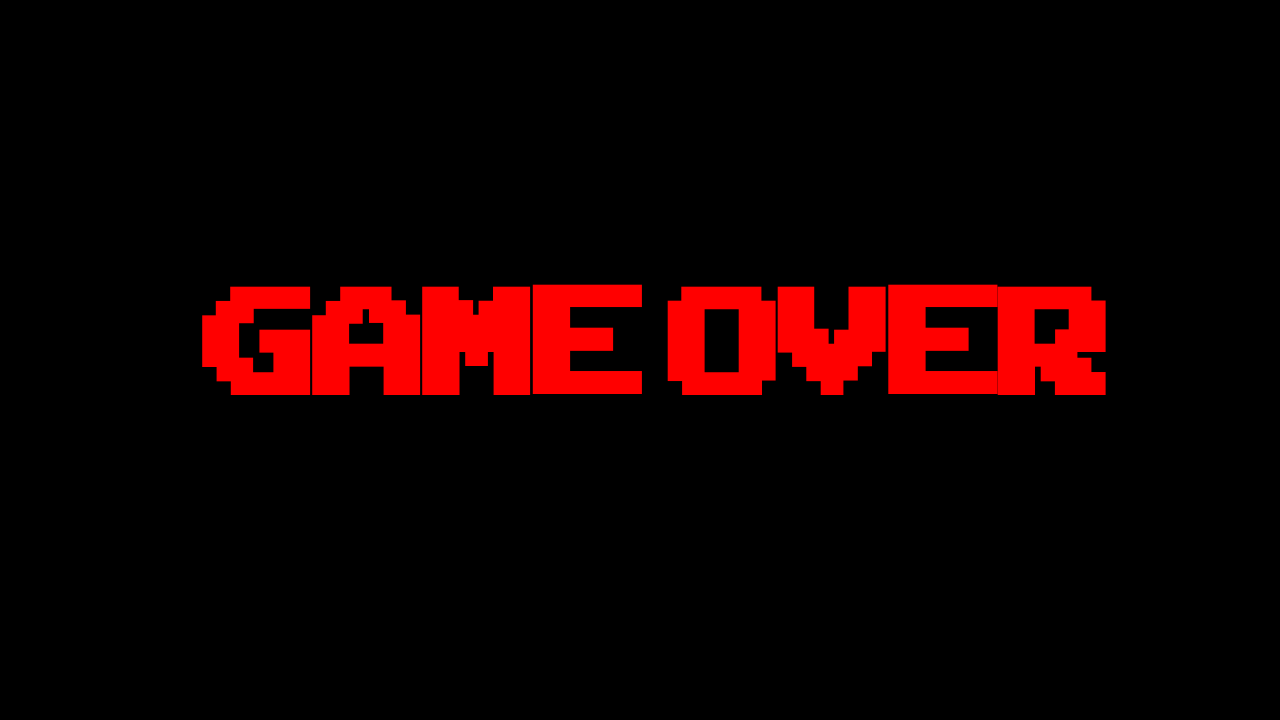
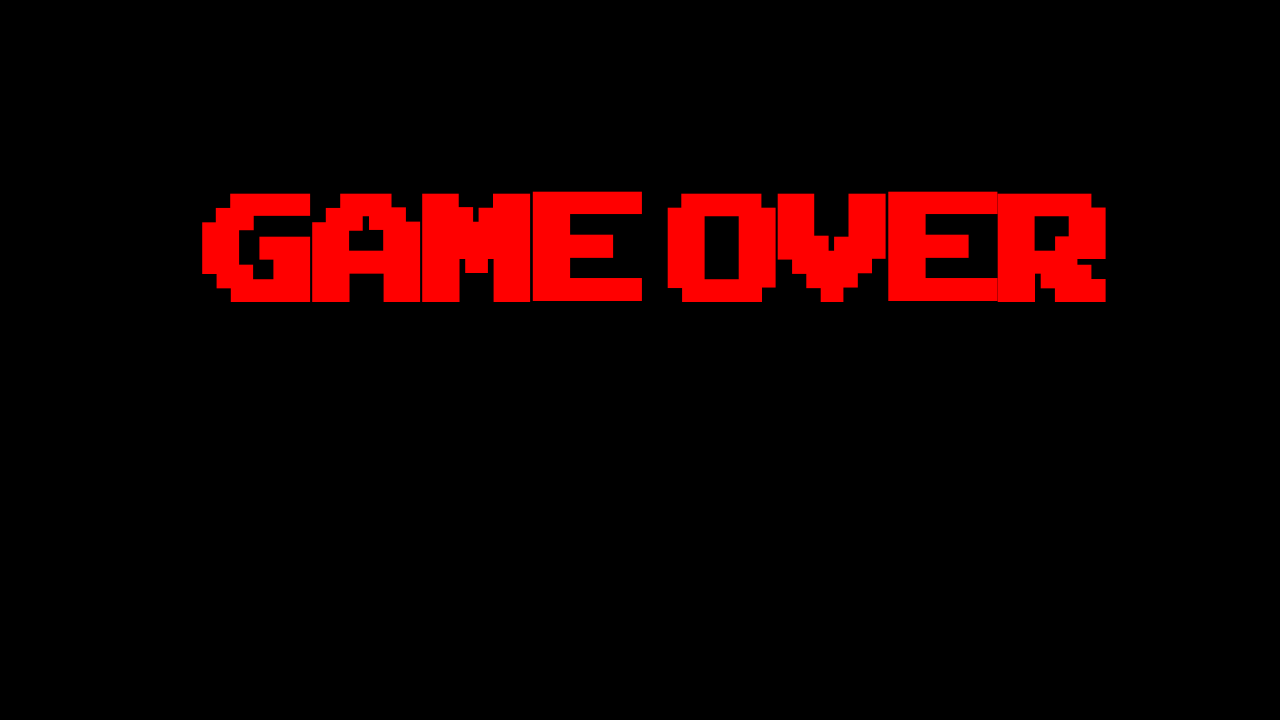
add: c'est la caca là

Changed region(s): [[0.1562, 0.2444, 0.875, 0.55]]

diff --git a/src/game/game.py b/src/game/game.py
@@ -10,6 +10,9 @@ from ..utils.utils import display_nums
 from ..utils.sprites import MENU, HUD, BACKGROUNDS
 
 
+PTS_LENGHT = 34
+
+
 class Game(State):
     def __init__(self, config: GameConfig) -> None:
         self.level = 0
@@ -28,7 +31,9 @@ class Game(State):
 
         self.player = Player(self.maze)
 
-        self.pacgums = PacgumManager(self.player, self.maze, 10, 50)
+        self.pacgums = PacgumManager(self.player, self.maze,
+                                     config.points_per_pacgum,
+                                     config.points_per_super_pacgum)
 
         self.ghosts = GhostManager(self.player, self.maze)
 
@@ -36,6 +41,7 @@ class Game(State):
 
         self.pause_menu = PausMenu()
         mlx.add_key_hook_function(self.open_pause_menu, "main")
+        mlx.add_key_hook_function(self.level_debug, "main")
 
     def open_pause_menu(self, keynum: int) -> None:
         if (mlx.KEYNAME[keynum] == "Escape" and self.game_ended is False):
@@ -46,27 +52,30 @@ class Game(State):
         mlx.close_window("main")
         return (MainMenu(self.config))
 
-    def regenerate_maze(self) -> None:
-        level = self.level
-        self.maze = Maze(
-            size=(self.config.level[level].width,
-                  self.config.level[level].height),
-            seed=self.config.seed
-        )
-
     def next_level(self) -> None:
         self.level += 1
-        self.regenerate_maze()
+        self.maze.regenerate_maze(
+            size=(self.config.level[self.level].width,
+                  self.config.level[self.level].height),
+            seed=self.config.seed)
+        # self.ghosts._reset_all_ghosts()
+        # ^
+        # |
+        # |
+        # Peut pas faire ça car le i_start et j_start  des phantomes
+        # correspondent à l'ancien labyrithe après le changement de celui-ci
+        self.ghosts = GhostManager(self.player, self.maze)  # <- temporaire
 
-        # C'est pas très beau et très opti de tout recrer
-        self.player = Player(self.maze)
-        self.ghosts = GhostManager(self.player, self.maze)
-        # on pourrait ajouter une methode dans entity qui actualise le maze
-        # puis réinitialiser nos entitées exemple :
-        #   self.ghosts.set_maze(self.maze)
-        #   self.ghosts._reset_all_ghosts()
-        #   self.player.reset()
-        #   self.player.set_maze(self.maze)
+        self.player.reset()
+
+        self.pacgums = PacgumManager(self.player, self.maze,
+                                     self.config.points_per_pacgum,
+                                     self.config.points_per_super_pacgum)
+
+    def level_debug(self, keynum: int) -> None:
+        if (mlx.KEYNAME[keynum] == "n" and self.game_ended is False):
+            print('CHANGING\n===============>>')
+            self.next_level()
 
 # -----------------------------------------------------------------------------
 # -------------------------------   UPDATE   ----------------------------------
@@ -82,13 +91,12 @@ class Game(State):
         # if the timer as finished or pacman is dead,
         # we wait 2s befor sending 1 to return to the main menu
         if (self.is_game_ended()):
-            if (mlx.timer - self.last_second >= 2.0):
+            if (mlx.timer - self.last_second >= 3.0):
                 return (1)
             return (0)
 
         if (self.pause_menu.pause is False):
             self.player.move()
-            # self.pacgums.display_pacgums()
             self.pacgums.update()
             self.ghosts.update()
 
@@ -111,6 +119,20 @@ class Game(State):
             BACKGROUNDS["Game over"],
             0,
             0
+        )
+        score_lenght = len(str(self.player.score)) * 14 + PTS_LENGHT
+        pts_offset = display_nums(
+            640 - int((score_lenght / 2)) + 7,
+            360,
+            "main",
+            str(self.player.score)
+            )
+        mlx.get_tools().mlx_put_image_to_window(
+            mlx.mlx_ptr,
+            mlx.windows["main"],
+            MENU["PTS"],
+            pts_offset,
+            360 - 7
         )
 
     def draw_pacman_lives(self, x: float, y: float) -> None:

diff --git a/src/game/entities/ghost.py b/src/game/entities/ghost.py
@@ -32,7 +32,7 @@ class Ghost(Entity):
     SNAIL_SPEED: int = 1.5
     FAST_SPEED: int = 0.75
     ROCKET_SPEED: int = 0.15
-    CORNERS: list[tuple[int, int]] = [(0,0), (0, 14), (14, 14), (14, 0)]
+    # CORNERS: list[tuple[int, int]] = [(0,0), (0, 14), (14, 14), (14, 0)]
 
     def __init__(self, maze: Maze, player: Player, prefix: str, speed: float,
                  i_start: int, j_start: int, dir_start: Direction) -> None:
@@ -66,13 +66,22 @@ class Ghost(Entity):
         self.direction_start = dir_start
 
         self.i, self.j = self.i_start, self.j_start
+        print(f"debug {self.prefix} i = {self.i}, j = {self.j}")
         self.direction = self.direction_start
-        self.x, self.y = self.maze.smaze[self.i][self.j]["coor"]
+        # self.x, self.y = self.maze.smaze[self.i][self.j]["coor"]  # on dirait que tu as oublié que j doit etre avant i pour acceder a une valeur dans une matrice, on commence par la hauteur
+        self.x, self.y = self.maze.smaze[self.j][self.i]["coor"]
         self.target: tuple[int, int]
         self.state = GhostState.CHASER
         self.is_frozen: bool = False
         self.last_s = mlx.timer
         self.last_death = 0
+
+        self.CORNERS: list[tuple[int, int]] = [
+            (0, 0),
+            (0, maze._height - 1),
+            (maze._width - 1, maze._height - 1),
+            (maze._width - 1, 0)
+            ]
 
     def set_state(self, new_state: GhostState) -> None:
         """Allows GhostManager to change ghost's behaviour"""
@@ -192,7 +201,8 @@ class Ghost(Entity):
 
             self.last_s = mlx.timer
 
-        self.x, self.y = self.maze.smaze[self.i][self.j]["coor"]
+        # self.x, self.y = self.maze.smaze[self.i][self.j]["coor"] pb i j ici aussi
+        self.x, self.y = self.maze.smaze[self.j][self.i]["coor"]
 
     def hit_player(self) -> bool:
         """

diff --git a/src/game/entities/player.py b/src/game/entities/player.py
@@ -2,7 +2,6 @@ from . import Entity
 from ... import Maze
 from ... import J_WALK_SPRIT
 from ... import mlx
-from enum import Enum, auto
 from math import ceil
 from ...utils.directions import Direction
 
@@ -11,15 +10,9 @@ from ...utils.directions import Direction
 # j = width (x)
 
 
-# class Direction(Enum):
-#     NORTH = auto()
-#     SOUTH = auto()
-#     WEST = auto()
-#     EST = auto()
-#     NONE = auto()
-
-
 class Player(Entity):
+    SUPER_P_TIMER = 15.0
+
     def __init__(self, maze: Maze, life: int = 3) -> None:
         super().__init__(maze)
         self.life = life
@@ -37,6 +30,7 @@ class Player(Entity):
         )
 
         self.last_s = mlx.timer
+        self.timer = Player.SUPER_P_TIMER
 
     def _update_direction(self, keynum: int) -> None:
         # print("hi ?")
@@ -53,8 +47,24 @@ class Player(Entity):
             self.direction = Direction.EAST
             # print("Est")
 
+    def reset(self) -> None:
+        self.i = ceil(self.maze._height / 2) - 1
+        self.j = ceil(self.maze._width / 2) - 1
+        self.x, self.y = self.maze.smaze[self.i][self.j]["coor"]
+        self.direction: Direction = Direction.NONE
+
+    def super_pacgam(self) -> None:
+        if (self.super_pacgum is True):
+            if (self.timer <= 0):
+                self.super_pacgum = False
+                self.timer = Player.SUPER_P_TIMER
+            else:
+                self.timer -= 1
+
     def move(self) -> None:
         if (mlx.timer - self.last_s >= 1):
+            self.super_pacgam()
+
             if (self.direction == Direction.SOUTH and
                     self.maze.smaze[self.i][self.j]["code"] & 0b0100 == 0):
                 self.i = (self.i + 1) % self.maze._height

diff --git a/src/game/maze.py b/src/game/maze.py
@@ -135,3 +135,33 @@ class Maze(MazeGenerator):
             self.x,
             self.y
         )
+
+    def regenerate_maze(self, size: tuple[int, int] = (15, 15),
+                        perfect: bool = False,
+                        entry_cell: tuple[int, int] = (0, 0),
+                        exit_cell: tuple[int, int] = (-1, -1),
+                        seed: int = 0) -> None:
+        # ---------------------------------------------------------------------
+        # Original Maze re-generation
+        self._width = size[0]
+        self._height = size[1]
+        self._perfect = perfect
+        self._seed = seed
+        self._entryx = (entry_cell[0]
+                        if 0 <= entry_cell[0] < self._width else 0)
+        self._entryy = (entry_cell[1]
+                        if 0 <= entry_cell[1] < self._height else 0)
+        self._exitx = (exit_cell[0]
+                       if 0 <= exit_cell[0] < self._width else self._width-1)
+        self._exity = (exit_cell[1]
+                       if 0 <= exit_cell[1] < self._height else self._height-1)
+        self._maze: list[list[int]] = []
+        self._path: list[list[int]] = []
+        self._shortest_path: str | bool = False
+        self.generate(self._seed)
+
+        # ---------------------------------------------------------------------
+        # Custom Maze re-generation
+        self.x, self.y = self.set_coordinates()
+        self.smaze = self.generate_smaze()
+        self.maze_img = self.bake_background(self._width, self._height, 48)

diff --git a/src/game/entities/ghost_manager.py b/src/game/entities/ghost_manager.py
@@ -18,11 +18,11 @@ class GhostManager:
             "blinky": Blinky(self.maze, self.player,
                              "b", 1.25, 0, 0, Direction.EAST),
             "clyde": Clyde(self.maze, self.player,
-                           "c", 1.0, 0, 14, Direction.SOUTH),
+                           "c", 1.0, 0, maze._height - 1, Direction.SOUTH),
             "inky": Inky(self.maze, self.player,
-                         "i", 0.75, 14, 14, Direction.WEST),
+                         "i", 0.75, maze._width - 1, maze._height - 1, Direction.WEST),
             "pinky": Pinky(self.maze, self.player,
-                           "p", 1.0, 14, 0, Direction.NORTH),
+                           "p", 1.0, maze._width - 1, 0, Direction.NORTH),
         }
 
         # flag enabled/disabled when Pacman’s super-pacgum mode starts/ends
@@ -90,8 +90,9 @@ class GhostManager:
             self._reset_all_ghosts()
 
             # ToDo: re-centrer
-            self.player.i = 7  # temp pour DEBUG
-            self.player.j = 7  # temp pour DEBUG
+            # self.player.i = 7  # temp pour DEBUG
+            # self.player.j = 7  # temp pour DEBUG
+            self.player.reset()
 
         else:
             # ToDo: gestion de la fin de partie par le menu

diff --git a/src/utils/utils.py b/src/utils/utils.py
@@ -51,7 +51,7 @@ def manhattan_dist(a: tuple[int, int], b: tuple[int, int]) -> int:
     return abs(a[0] - b[0]) + abs(a[1] - b[1])
 
 
-def random_cell(nb_col: int = 15, nb_row: int = 15) -> tuple[int, int]:
+def random_cell(nb_col, nb_row) -> tuple[int, int]:
     i = random.randint(0, nb_col - 1)
     j = random.randint(0, nb_row - 1)
     return (i, j)
@@ -64,6 +64,6 @@ def not_closed_cell(maze: "Maze", i: int, j: int) -> bool:
 
 def random_open_cell(maze: "Maze") -> tuple[int, int]:
     while True:
-        i, j = random_cell()
+        i, j = random_cell(maze._width, maze._height)
         if not_closed_cell(maze, i, j):
             return (i, j)
